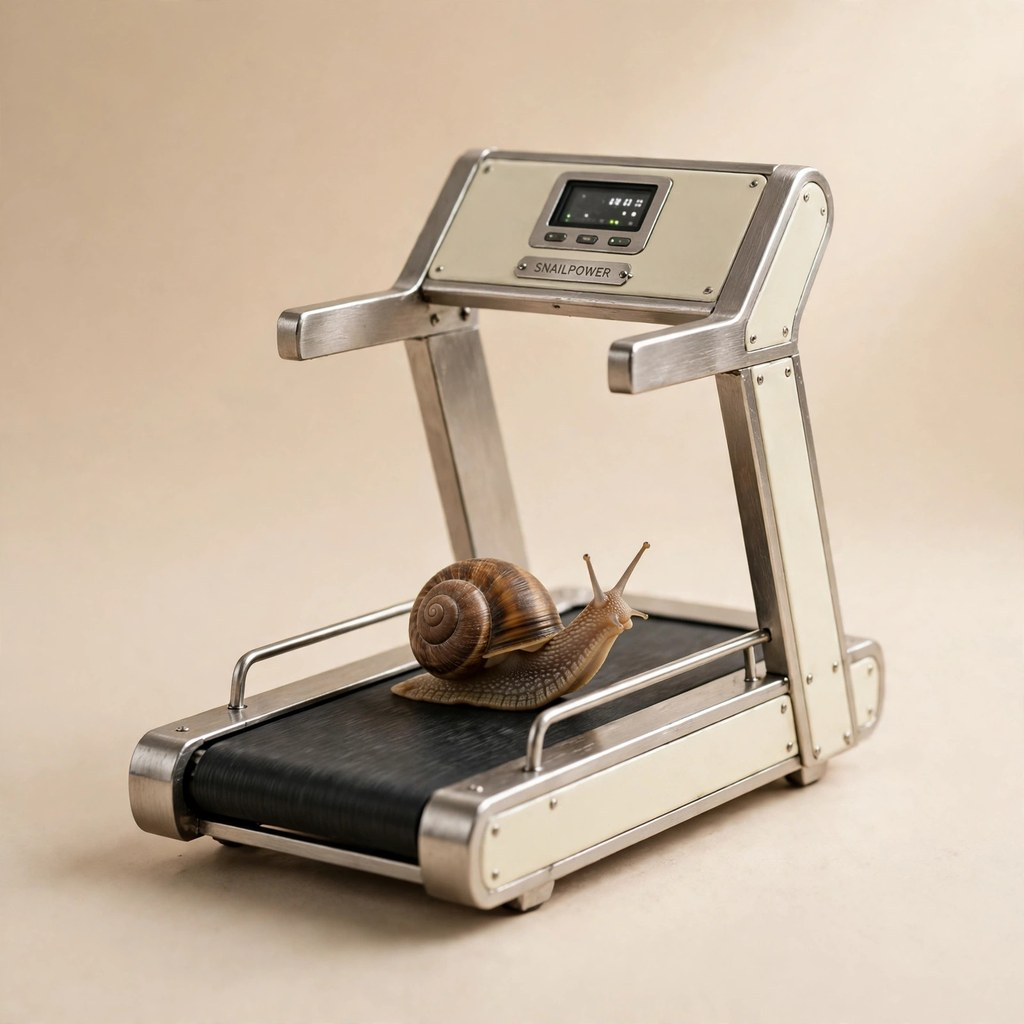
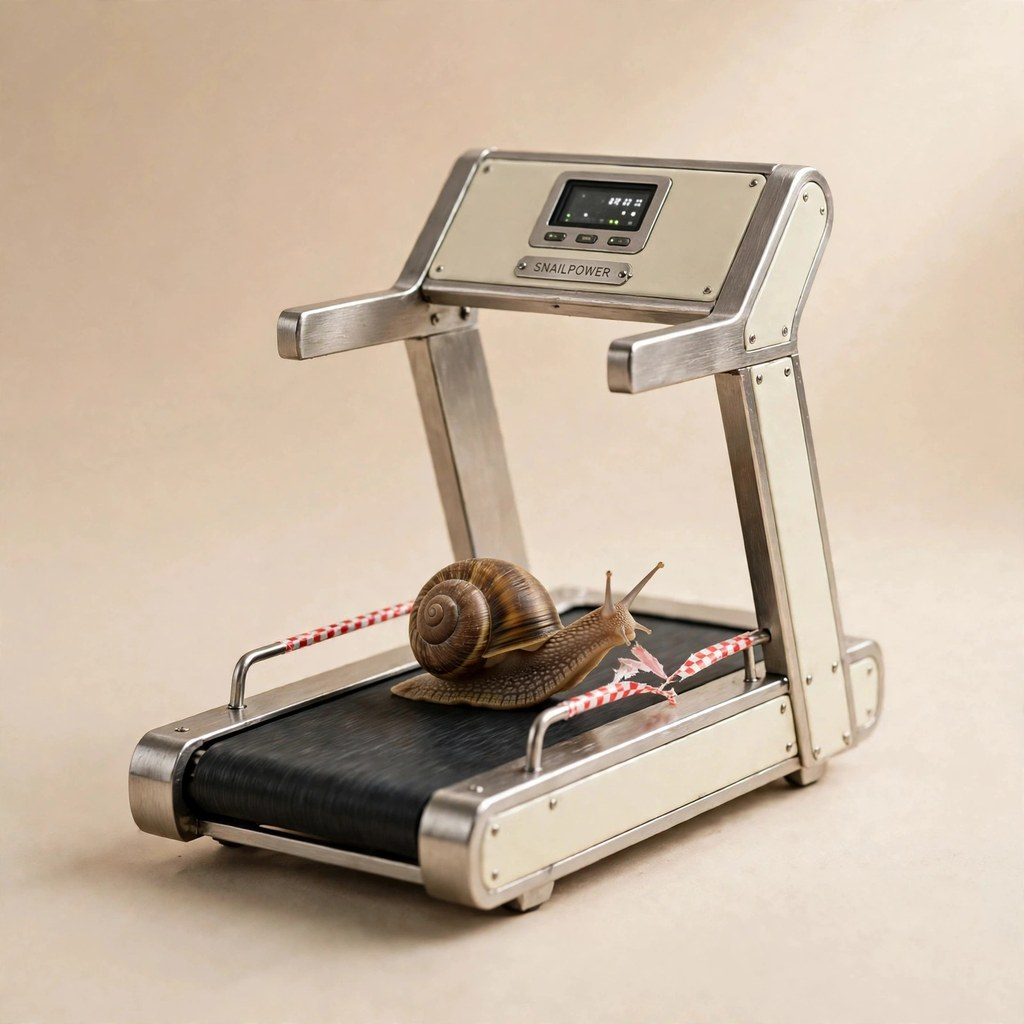
Add files via upload

diff --git a/main.py b/main.py
@@ -1,5 +1,7 @@
 """Entry point: write the catalogue photograph to /output/entry.png.
 
+Mid-action finish-line edition: the SNAILPOWER treadmill is caught
+mid-use, its rider a split-second from breaking the finish tape.
 The photograph ships in this repository as asset.jpg, beside this file.
 The program simply copies its bytes to the output path.
 """
